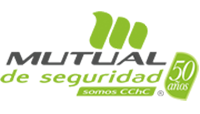
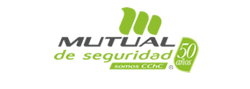
idea colapsable en menu lateral, boton flotante para subir y auspiciadores corregidos

diff --git a/index.html b/index.html
@@ -44,11 +44,26 @@
 
     <!--menu lateral version movil-->
     <ul id="slide-out" class="side-nav grey darken-4" >
-        <li class="white-text"><img id="logo-nav-bar" src="app/images/Ideatón-Logo.png" alt=""></li>
+        <li class="white-text"><img id="logo-nav-bar" src="app/images/Ideatón-Logo.svg" alt=""></li>
         <li class="white-text"><a class="white-text" href='#login-modal' modal>Iniciar Sesión</a></li>
         <li class="white-text"><div class="divider"></div></li>
         <li class="white-text" ui-sref-active="active"><a class="white-text" ui-sref="inicio">Inicio</a></li>
-        <li class="white-text" ui-sref-active="active"><a class="white-text" ui-sref="ideas">Ideas</a></li>
+        <li class="white-text" ui-sref-active="active">
+            <ul class="collapsible" data-collapsible="accordion">
+                <li>
+                    <div class="collapsible-header">
+                        <a class="white-text" href="#!">Ideas</a>
+                    </div>
+                    <div class="collapsible-body grey darken-3">
+                        <a class="white-text" href="javascript:void(0);">Vida Diaria</a>
+                        <a class="white-text" href="javascript:void(0);">Eduación</a>
+                        <a class="white-text" href="javascript:void(0);">Trabajo</a>
+                        <a class="white-text" href="javascript:void(0);">Transporte</a>
+                        <a class="white-text" href="javascript:void(0);">Comunicación</a>
+                    </div>
+                </li>
+            </ul>
+        </li>
         <li class="white-text" ui-sref-active="active"><a class="white-text" ui-sref="bases">Bases</a></li>
         <li class="white-text hide" ui-sref-active="active"><a ui-sref="sube-tu-idea">Sube tu Idea</a></li>
         <li class="white-text" ><a href='#login-modal' class="white-text" modal>Sube tu Idea</a></li>
@@ -80,6 +95,12 @@
 
     <!--inyeccion de vistas-->
     <div ui-view></div>
+
+    <div id="irarriba fixed-action-btn" style="bottom: 45px; right: 24px;">
+        <a class="btn-floating btn-large green" href="#">
+            <i class="fa fa-arrow-up"></i>
+        </a>
+    </div>
 
     <!--footer-->
     <footer class="page-footer white-text amber lighten-1 z-depth-1">

diff --git a/app/js/script.js b/app/js/script.js
@@ -49,4 +49,16 @@ $(window).resize(function () {
     $('#video').reload()
 });
 
-  
+function irArriba(){
+    $(document).on("scroll", function(){
+        var desplazamientoActual = $(document).scrollTop();
+        var controlArriba = $("#irarriba");
+        console.log("Estoy en " , desplazamientoActual);
+        if(desplazamientoActual > 100 && controlArriba.css("display") == "none"){
+            controlArriba.fadeIn(500);
+        }
+        if(desplazamientoActual < 100 && controlArriba.css("display") == "block"){
+            controlArriba.fadeOut(500);
+        }
+    });
+};

diff --git a/app/css/style.css b/app/css/style.css
@@ -2,6 +2,9 @@
     border: 2px solid;
     border-color: #4caf50;
 }
+.side-nav .collapsible-header, .side-nav.fixed .collapsible-header{
+    padding: 0;
+}
 ul#categorias{
     margin-top: 80px;
     width: 130px !important;
@@ -50,6 +53,9 @@ nav i.material-icons{
         width: 75%;
         margin: 8px;
     }
+}
+#logo-nav-bar{
+    margin: 8px;
 }
 /*ventana modal*/
 .modal{
